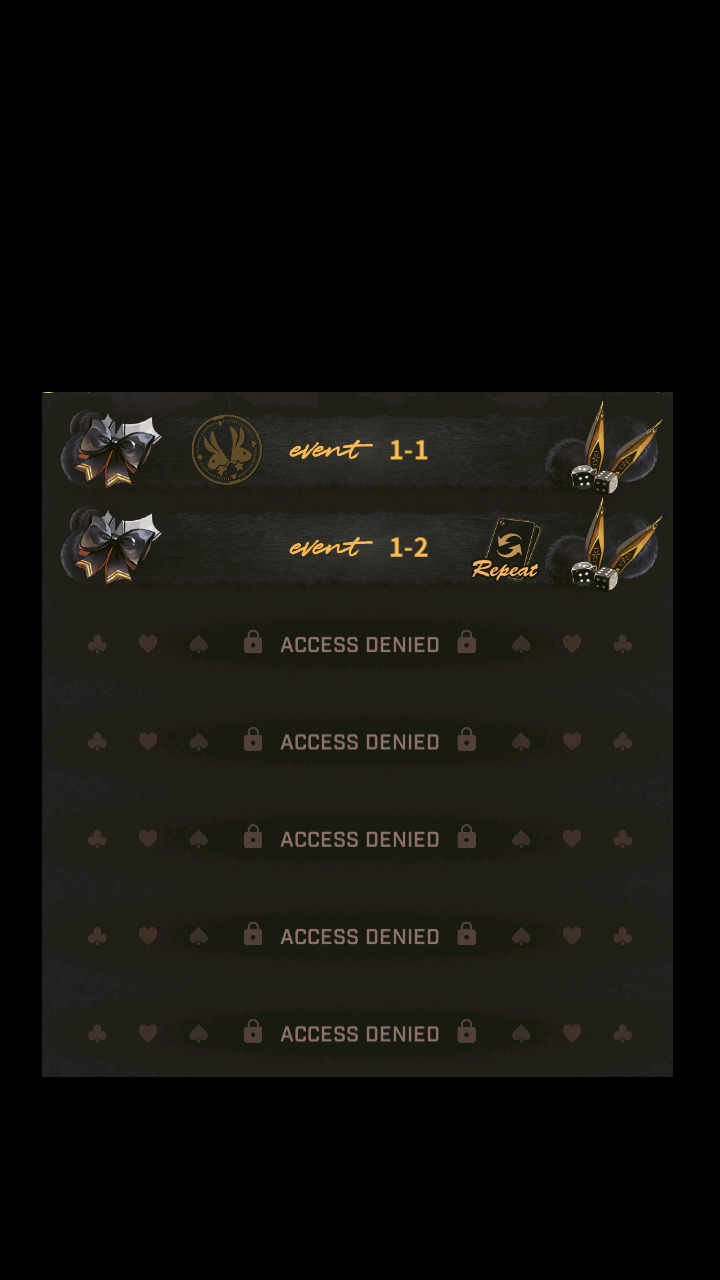
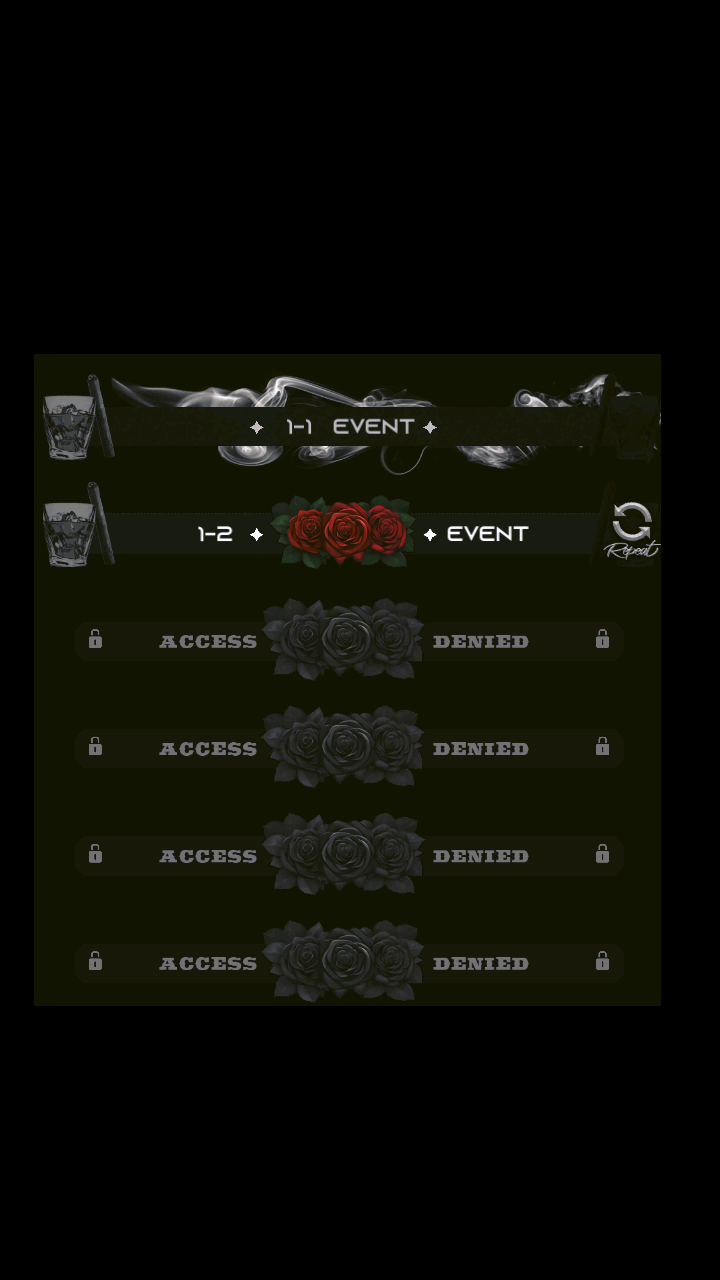
feature: 活动更新至 Queen's Order Story 1 HARD

Changed region(s): [[0.0611, 0.2812, 0.9472, 0.8438]]

diff --git a/module/event/event_3/assets.py b/module/event/event_3/assets.py
@@ -19,13 +19,13 @@ STAGE_CHECK = Button(area={'cn': (21, 38, 90, 56)}, color={'cn': (127, 126, 124)
 STAGE_DETAILED_CHECK = Button(area={'cn': (150, 855, 269, 892)}, color={'cn': (218, 217, 217)}, button={'cn': (150, 855, 269, 892)}, file={'cn': './assets/event/event_3/STAGE_DETAILED_CHECK.png'})
 STORY_1_CHECK = Button(area={'cn': (262, 954, 460, 993)}, color={'cn': (153, 133, 64)}, button={'cn': (262, 954, 460, 993)}, file={'cn': './assets/event/event_3/STORY_1_CHECK.png'})
 STORY_1_GOTO_STAGE_LIST = Button(area={'cn': (262, 954, 460, 993)}, color={'cn': (153, 133, 64)}, button={'cn': (262, 954, 460, 993)}, file={'cn': './assets/event/event_3/STORY_1_GOTO_STAGE_LIST.png'})
-STORY_1_HARD_CHECK = Button(area={'cn': (80, 344, 253, 384)}, color={'cn': (84, 70, 55)}, button={'cn': (80, 344, 253, 384)}, file={'cn': './assets/event/event_3/STORY_1_HARD_CHECK.png'})
-STORY_1_HARD_COMPLETED = Button(area={'cn': (196, 415, 259, 485)}, color={'cn': (55, 49, 33)}, button={'cn': (196, 415, 259, 485)}, file={'cn': './assets/event/event_3/STORY_1_HARD_COMPLETED.png'})
-STORY_1_HARD_LOCKED = Button(area={'cn': (243, 624, 482, 657)}, color={'cn': (43, 41, 30)}, button={'cn': (243, 624, 482, 657)}, file={'cn': './assets/event/event_3/STORY_1_HARD_LOCKED.png'})
-STORY_1_HARD_NO_OPPORTUNITY = Button(area={'cn': (618, 349, 668, 367)}, color={'cn': (80, 73, 62)}, button={'cn': (618, 349, 668, 367)}, file={'cn': './assets/event/event_3/STORY_1_HARD_NO_OPPORTUNITY.png'})
-STORY_1_HARD_STAGE_AREA_A = Button(area={'cn': (42, 392, 673, 1077)}, color={'cn': (38, 36, 28)}, button={'cn': (42, 392, 673, 1077)}, file={'cn': './assets/event/event_3/STORY_1_HARD_STAGE_AREA_A.png'})
-STORY_1_HARD_STAGE_AREA_B = Button(area={'cn': (0, 555, 720, 1062)}, color={'cn': (34, 33, 26)}, button={'cn': (0, 555, 720, 1062)}, file={'cn': './assets/event/event_3/STORY_1_HARD_STAGE_AREA_B.png'})
-STORY_1_HARD_UNLOCKED = Button(area={'cn': (132, 515, 287, 582)}, color={'cn': (42, 42, 37)}, button={'cn': (132, 515, 287, 582)}, file={'cn': './assets/event/event_3/STORY_1_HARD_UNLOCKED.png'})
+STORY_1_HARD_CHECK = Button(area={'cn': (298, 74, 434, 166)}, color={'cn': (73, 73, 71)}, button={'cn': (298, 74, 434, 166)}, file={'cn': './assets/event/event_3/STORY_1_HARD_CHECK.png'})
+STORY_1_HARD_COMPLETED = Button(area={'cn': (331, 391, 416, 454)}, color={'cn': (50, 51, 40)}, button={'cn': (331, 391, 416, 454)}, file={'cn': './assets/event/event_3/STORY_1_HARD_COMPLETED.png'})
+STORY_1_HARD_LOCKED = Button(area={'cn': (153, 631, 264, 654)}, color={'cn': (49, 49, 40)}, button={'cn': (153, 631, 264, 654)}, file={'cn': './assets/event/event_3/STORY_1_HARD_LOCKED.png'})
+STORY_1_HARD_NO_OPPORTUNITY = Button(area={'cn': (598, 314, 654, 333)}, color={'cn': (82, 79, 65)}, button={'cn': (598, 314, 654, 333)}, file={'cn': './assets/event/event_3/STORY_1_HARD_NO_OPPORTUNITY.png'})
+STORY_1_HARD_STAGE_AREA_A = Button(area={'cn': (34, 354, 661, 1006)}, color={'cn': (26, 28, 13)}, button={'cn': (34, 354, 661, 1006)}, file={'cn': './assets/event/event_3/STORY_1_HARD_STAGE_AREA_A.png'})
+STORY_1_HARD_STAGE_AREA_B = Button(area={'cn': (54, 340, 649, 970)}, color={'cn': (24, 27, 11)}, button={'cn': (54, 340, 649, 970)}, file={'cn': './assets/event/event_3/STORY_1_HARD_STAGE_AREA_B.png'})
+STORY_1_HARD_UNLOCKED = Button(area={'cn': (247, 524, 535, 546)}, color={'cn': (67, 50, 40)}, button={'cn': (247, 524, 535, 546)}, file={'cn': './assets/event/event_3/STORY_1_HARD_UNLOCKED.png'})
 STORY_1_NORMAL_CHECK = Button(area={'cn': (59, 311, 200, 340)}, color={'cn': (60, 45, 21)}, button={'cn': (59, 311, 200, 340)}, file={'cn': './assets/event/event_3/STORY_1_NORMAL_CHECK.png'})
 STORY_1_NORMAL_COMPLETED = Button(area={'cn': (267, 391, 455, 442)}, color={'cn': (40, 42, 27)}, button={'cn': (267, 391, 455, 442)}, file={'cn': './assets/event/event_3/STORY_1_NORMAL_COMPLETED.png'})
 STORY_1_NORMAL_LOCKED = Button(area={'cn': (249, 573, 471, 624)}, color={'cn': (28, 31, 16)}, button={'cn': (249, 573, 471, 624)}, file={'cn': './assets/event/event_3/STORY_1_NORMAL_LOCKED.png'})

diff --git a/module/event/event.py b/module/event/event.py
@@ -8,7 +8,7 @@ from module.event.assets import HARD_AVAILABLE_CHECK
 from module.logger import logger
 from module.map.map_grids import SelectedGrids
 from module.simulation_room.assets import AUTO_SHOOT, AUTO_BURST, PAUSE
-from module.ui.assets import GOTO_BACK
+from module.ui.assets import GOTO_BACK, MAIN_CHECK
 from module.ui.page import page_main, page_event, page_story_1, MAIN_GOTO_EVENT, EVENT_GOTO_STORY_1, page_story_2, \
     STORY_1_NORMAL_CHECK, \
     STORY_1_HARD_CHECK, STORY_2_NORMAL_CHECK, STORY_2_HARD_CHECK, STORY_1_GOTO_STAGE_LIST, STORY_2_GOTO_STAGE_LIST, \
@@ -521,7 +521,8 @@ class Event(UI):
                 click_timer.reset()
                 continue
 
-            if self.appear(GOTO_BACK, offset=(30, 30), static=False) and confirm_timer.reached():
+            if (self.appear(GOTO_BACK, offset=(30, 30), static=False) or self.appear(MAIN_CHECK, offset=(30, 30),
+                                                                                     static=False)) and confirm_timer.reached():
                 break
 
     def ensure_opportunity_remain(self):
